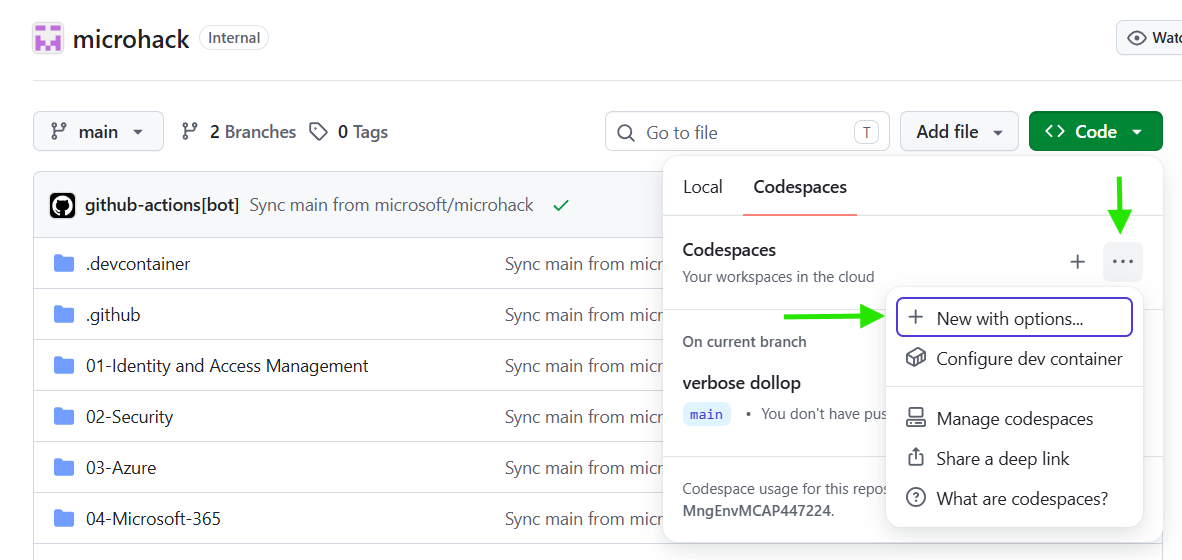
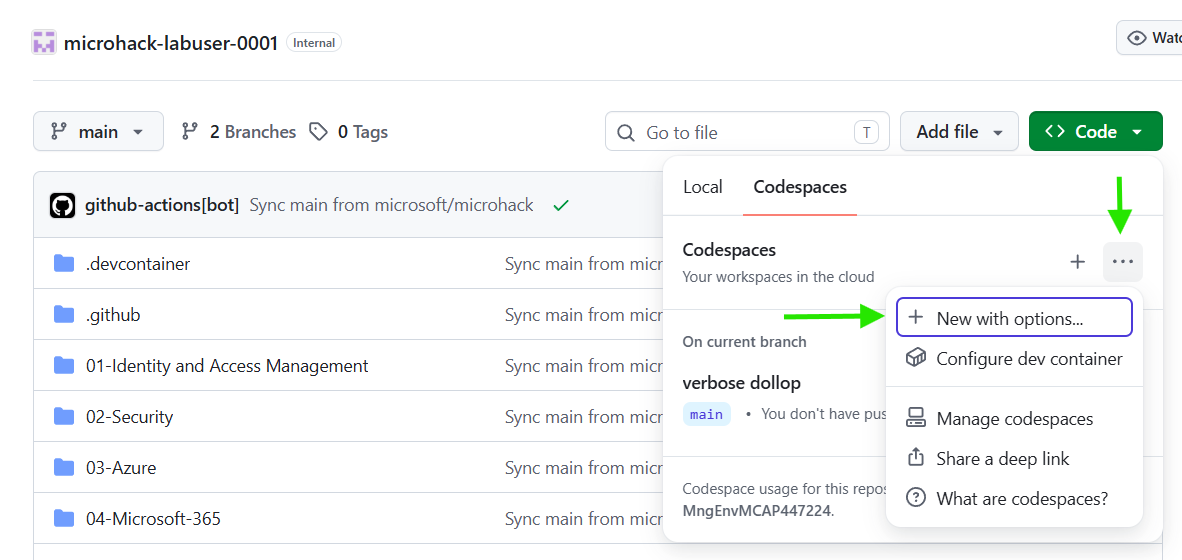
Sync main from microsoft/microhack

Changed region(s): [[0.0305, 0.0304, 0.3046, 0.0911]]

diff --git a/03-Azure/01-04-AI/07_Fraud_Intelligence/walkthrough/challenge-01/solution-01.md b/03-Azure/01-04-AI/07_Fraud_Intelligence/walkthrough/challenge-01/solution-01.md
@@ -16,7 +16,7 @@ Complete this setup with the credentials provided in your Hackbox. Use the assig
 
 ### 1. Sign in to Azure
 
-Open the [Azure portal](https://portal.azure.com) and sign in with the credentials provided in your Hackbox.
+Open the [Azure portal](https://portal.azure.com) and sign in with the credentials provided in your Hackbox (See the **Credentials** section at the top of this web page).
 
 When prompted to choose an account, select **Use another account** and enter the credentials provided. Do not use your personal or work account.
 
@@ -32,11 +32,11 @@ Open the resource group assigned to you and confirm that its resources have been
 
 Verify that you can access the resources used in the later challenges, including the Microsoft Foundry project, model deployments, Azure Cosmos DB account, and Application Insights resource.
 
-### 2. Sign in to GitHub
+## 2. Sign in to GitHub
 
 Open [GitHub](https://github.com) and sign in with the credentials provided in your Hackbox.
 
-When prompted to choose an account, select **Use another account**. Do not use your personal or work account.
+When prompted to choose an account, select **Use another account**. Do not use your personal or work account. 
 
 ![Sign in to GitHub with another account](/challenges/images/github-login.png)
 
@@ -46,7 +46,15 @@ Open the GitHub organization assigned to your lab account.
 
 ![GitHub organization selector](/challenges/images/github-organization.png)
 
-Select the assigned organization, then open the `microhack` repository. Confirm that you can see the repository files and folders.
+Select the assigned organization, then open the `microhack` repository. You need to fork the repository before you can create a Codespace. To fork the repository, click the **Fork** button in the top-right corner of the repository page and follow the prompts:
+
+![Create fork](/challenges/images/create-fork-1.png)
+
+Use a unique name for the repository name to avoid conflicts with other forks. For example, you can append your lab username to the repository name (e.g., `microhack-labuser-0001`):
+
+![Fork repository with unique name](/challenges/images/create-fork-2.png)
+
+Finally, you should see your forked repository with the unique name you provided and all files and folders from the original repository:
 
 ![Files and folders in the GitHub repository](/challenges/images/github-repository.png)
 
@@ -56,27 +64,34 @@ From the repository page, select **Code**, then open the **Codespaces** tab. Sel
 
 ![Create a GitHub Codespace with options](/challenges/images/github-codespaces.png)
 
-For **Dev container configuration**, select **Azure / AI / Fraud Intelligence**, then select **Create codespace**.
+For **Dev container configuration**, select **Azure / AI / Fraud Intelligence**, then select **Create codespace**:
+
+![Select Azure / AI / Fraud Intelligence dev container configuration](/challenges/images/select-dev-container.png)
 
 GitHub opens the Codespace in a new browser tab. Wait for the container setup to finish, then confirm that the repository files are visible in the Explorer and that the integrated terminal opens without errors.
 
-Open a terminal in the Codespace (Terminal > New Terminal) and run the following command to verify that Azure CLI is installed:
+You should have a terminal ready to use, otherwise open a terminal in the Codespace (Terminal > New Terminal). Then run the following command to verify that Azure CLI is installed:
 
 ```bash
 az --version
 ```
 
-Then sign in to Azure from the Codespace terminal:
+Then sign in to Azure from the Codespace terminal and follow the link shown to authenticate with a web browser and the device code:
 
 ```bash
 az login
 ```
 
-Next, initialize a local environment file with the following commands:
+First, create a `rg` environment variable with your Resource Group name provided in Hackbox:
 
 ```bash
 # init RG with your Resource Group name provided in Hackbox
 rg=<your-resource-group-name>
+```
+
+Next, initialize a local environment file with the following commands:
+
+```bash
 DEPLOYMENT=$(az deployment group list -g "$rg" \
   --query "sort_by([?starts_with(name, 'mhh')], &properties.timestamp)[-1].name" \
   -o tsv)
@@ -99,7 +114,6 @@ chmod 600 hackenv
 echo "rg=$rg" >> hackenv
 cat hackenv
 source hackenv
-source baseenv
 ``` 
 
 ## 🚀 Go Further

diff --git a/03-Azure/01-04-AI/07_Fraud_Intelligence/challenges/challenge-01.md b/03-Azure/01-04-AI/07_Fraud_Intelligence/challenges/challenge-01.md
@@ -16,7 +16,7 @@ Complete this setup with the credentials provided in your Hackbox. Use the assig
 
 ### 1. Sign in to Azure
 
-Open the [Azure portal](https://portal.azure.com) and sign in with the credentials provided in your Hackbox.
+Open the [Azure portal](https://portal.azure.com) and sign in with the credentials provided in your Hackbox (See the **Credentials** section at the top of this web page).
 
 When prompted to choose an account, select **Use another account** and enter the credentials provided. Do not use your personal or work account.
 
@@ -36,7 +36,7 @@ Verify that you can access the resources used in the later challenges, including
 
 Open [GitHub](https://github.com) and sign in with the credentials provided in your Hackbox.
 
-When prompted to choose an account, select **Use another account**. Do not use your personal or work account.
+When prompted to choose an account, select **Use another account**. Do not use your personal or work account. 
 
 ![Sign in to GitHub with another account](/challenges/images/github-login.png)
 
@@ -46,7 +46,15 @@ Open the GitHub organization assigned to your lab account.
 
 ![GitHub organization selector](/challenges/images/github-organization.png)
 
-Select the assigned organization, then open the `microhack` repository. Confirm that you can see the repository files and folders.
+Select the assigned organization, then open the `microhack` repository. You need to fork the repository before you can create a Codespace. To fork the repository, click the **Fork** button in the top-right corner of the repository page and follow the prompts:
+
+![Create fork](/challenges/images/create-fork-1.png)
+
+Use a unique name for the repository name to avoid conflicts with other forks. For example, you can append your lab username to the repository name (e.g., `microhack-labuser-0001`):
+
+![Fork repository with unique name](/challenges/images/create-fork-2.png)
+
+Finally, you should see your forked repository with the unique name you provided and all files and folders from the original repository:
 
 ![Files and folders in the GitHub repository](/challenges/images/github-repository.png)
 
@@ -56,27 +64,34 @@ From the repository page, select **Code**, then open the **Codespaces** tab. Sel
 
 ![Create a GitHub Codespace with options](/challenges/images/github-codespaces.png)
 
-For **Dev container configuration**, select **Azure / AI / Fraud Intelligence**, then select **Create codespace**.
+For **Dev container configuration**, select **Azure / AI / Fraud Intelligence**, then select **Create codespace**:
+
+![Select Azure / AI / Fraud Intelligence dev container configuration](/challenges/images/select-dev-container.png)
 
 GitHub opens the Codespace in a new browser tab. Wait for the container setup to finish, then confirm that the repository files are visible in the Explorer and that the integrated terminal opens without errors.
 
-Open a terminal in the Codespace (Terminal > New Terminal) and run the following command to verify that Azure CLI is installed:
+You should have a terminal ready to use, otherwise open a terminal in the Codespace (Terminal > New Terminal). Then run the following command to verify that Azure CLI is installed:
 
 ```bash
 az --version
 ```
 
-Then sign in to Azure from the Codespace terminal:
+Then sign in to Azure from the Codespace terminal and follow the link shown to authenticate with a web browser and the device code:
 
 ```bash
 az login
 ```
 
-Next, initialize a local environment file with the following commands:
+First, create a `rg` environment variable with your Resource Group name provided in Hackbox:
 
 ```bash
 # init RG with your Resource Group name provided in Hackbox
 rg=<your-resource-group-name>
+```
+
+Next, initialize a local environment file with the following commands:
+
+```bash
 DEPLOYMENT=$(az deployment group list -g "$rg" \
   --query "sort_by([?starts_with(name, 'mhh')], &properties.timestamp)[-1].name" \
   -o tsv)
@@ -99,7 +114,6 @@ chmod 600 hackenv
 echo "rg=$rg" >> hackenv
 cat hackenv
 source hackenv
-source baseenv
 ``` 
 
 ## 🚀 Go Further

diff --git a/03-Azure/01-04-AI/07_Fraud_Intelligence/challenges/challenge-03.md b/03-Azure/01-04-AI/07_Fraud_Intelligence/challenges/challenge-03.md
@@ -24,10 +24,9 @@ The assessment must remain grounded in retrieved policy. Missing or conflicting 
 
 ## ✅ Tasks
 
-Before starting, source `baseenv` and `hackenv` to load the environment variables used by this challenge.
+Before starting, source `hackenv` to load the environment variables used by this challenge.
 
 ```bash
-source baseenv
 source hackenv
 ```
 

diff --git a/03-Azure/01-04-AI/07_Fraud_Intelligence/challenges/challenge-04.md b/03-Azure/01-04-AI/07_Fraud_Intelligence/challenges/challenge-04.md
@@ -28,10 +28,9 @@ The orchestration owns sequencing, state transfer, failure handling, and the fin
 
 ## ✅ Tasks
 
-Before starting, source `baseenv` and `hackenv` to load the environment variables used by this challenge.
+Before starting, source `hackenv` to load the environment variables used by this challenge.
 
 ```bash
-source baseenv
 source hackenv
 ```
 

diff --git a/03-Azure/01-04-AI/07_Fraud_Intelligence/challenges/challenge-05.md b/03-Azure/01-04-AI/07_Fraud_Intelligence/challenges/challenge-05.md
@@ -28,10 +28,9 @@ The Alert Manager Agent must treat the regulatory assessment as authoritative. I
 
 ## ✅ Tasks
 
-Before starting, source `baseenv` and `hackenv` to load the environment variables used by this challenge.
+Before starting, source `hackenv` to load the environment variables used by this challenge.
 
 ```bash
-source baseenv
 source hackenv
 ```
 

diff --git a/03-Azure/01-04-AI/07_Fraud_Intelligence/walkthrough/challenge-03/solution-03.md b/03-Azure/01-04-AI/07_Fraud_Intelligence/walkthrough/challenge-03/solution-03.md
@@ -24,10 +24,9 @@ The assessment must remain grounded in retrieved policy. Missing or conflicting 
 
 ## ✅ Tasks
 
-Before starting, source `baseenv` and `hackenv` to load the environment variables used by this challenge.
+Before starting, source `hackenv` to load the environment variables used by this challenge.
 
 ```bash
-source baseenv
 source hackenv
 ```
 

diff --git a/03-Azure/01-04-AI/07_Fraud_Intelligence/walkthrough/challenge-04/solution-04.md b/03-Azure/01-04-AI/07_Fraud_Intelligence/walkthrough/challenge-04/solution-04.md
@@ -28,10 +28,9 @@ The orchestration owns sequencing, state transfer, failure handling, and the fin
 
 ## ✅ Tasks
 
-Before starting, source `baseenv` and `hackenv` to load the environment variables used by this challenge.
+Before starting, source `hackenv` to load the environment variables used by this challenge.
 
 ```bash
-source baseenv
 source hackenv
 ```
 

diff --git a/03-Azure/01-04-AI/07_Fraud_Intelligence/walkthrough/challenge-05/solution-05.md b/03-Azure/01-04-AI/07_Fraud_Intelligence/walkthrough/challenge-05/solution-05.md
@@ -28,10 +28,9 @@ The Alert Manager Agent must treat the regulatory assessment as authoritative. I
 
 ## ✅ Tasks
 
-Before starting, source `baseenv` and `hackenv` to load the environment variables used by this challenge.
+Before starting, source `hackenv` to load the environment variables used by this challenge.
 
 ```bash
-source baseenv
 source hackenv
 ```
 
